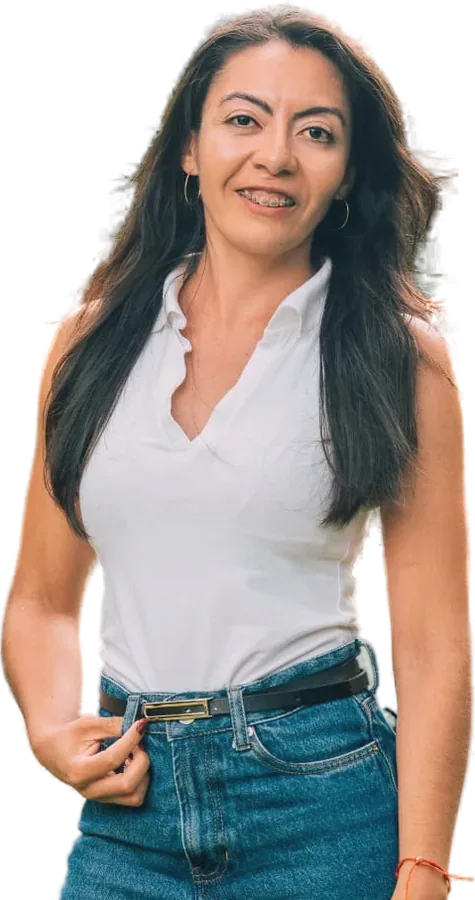
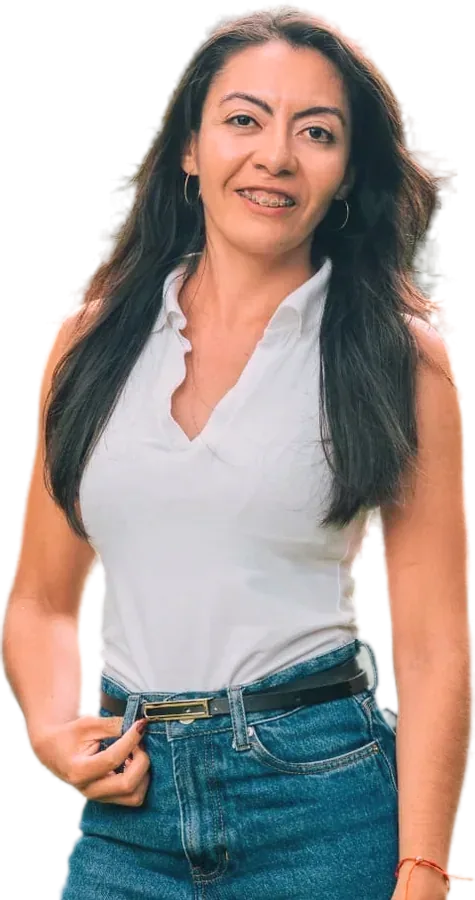
Clean hero cutout edges and warm Ivonne's skin tone one step (#13)
* Add static sales landing page for Viver de Coliving

Claude-Session: https://claude.ai/code/session_01SfAepcbRf6sY97WC7D79BX

* Serve the landing page as static assets on Cloudflare Workers

Claude-Session: https://claude.ai/code/session_01SfAepcbRf6sY97WC7D79BX

* Use Paola's coliving photo on the landing page

Claude-Session: https://claude.ai/code/session_01SfAepcbRf6sY97WC7D79BX

* Raise contrast and type sizes, redesign hero art and team section on the landing page

Claude-Session: https://claude.ai/code/session_01SfAepcbRf6sY97WC7D79BX

* Fit hero photos inside a larger house shape

Claude-Session: https://claude.ai/code/session_01SfAepcbRf6sY97WC7D79BX

* Turn the collaborative economy section into an ownership-to-access framework

Claude-Session: https://claude.ai/code/session_01SfAepcbRf6sY97WC7D79BX

* Remove audience list from module 2 description

Claude-Session: https://claude.ai/code/session_01SfAepcbRf6sY97WC7D79BX

* Show the collaborative economy as a circular diagram

Claude-Session: https://claude.ai/code/session_01SfAepcbRf6sY97WC7D79BX

* Use background-free photos inside the hero house and set the WhatsApp number

Claude-Session: https://claude.ai/code/session_01SfAepcbRf6sY97WC7D79BX

* Wire Asaas checkout links, add the individual consultancy offer and fix module count

Claude-Session: https://claude.ai/code/session_01SfAepcbRf6sY97WC7D79BX

* Retouch Ivonne's hero photo lighting and skin tone
[…]

diff --git a/landing/index.html b/landing/index.html
@@ -88,12 +88,12 @@ p+p{margin-top:16px}
 .hero-visual{position:relative;width:100%;max-width:640px;margin:0 auto;aspect-ratio:1/1.02;overflow:hidden;border-radius:0 0 20px 20px}
 .casa{position:absolute;left:0;right:0;top:0;bottom:0;background:var(--amarelo);clip-path:polygon(50% 0,100% 28%,100% 100%,0 100%,0 28%)}
 .gente{position:absolute;bottom:0;margin:0;height:86%}
-.gente img{height:100%;width:auto;display:block;filter:drop-shadow(0 14px 22px rgba(28,28,28,.28))}
-.gente.g1{left:3%;z-index:2}
-.gente.g2{right:3%;z-index:1;height:82%}
+.gente img{height:100%;width:auto;display:block;filter:drop-shadow(0 4px 6px rgba(28,28,28,.14))}
+.gente.g1{left:-3%;z-index:2}
+.gente.g2{right:-3%;z-index:1;height:82%}
 .gente figcaption{position:absolute;bottom:14px;background:var(--grafite);color:#fff;border-radius:8px;padding:5px 12px;font-size:13px;line-height:17px;z-index:3;white-space:nowrap}
-.gente.g1 figcaption{left:8%}
-.gente.g2 figcaption{right:8%}
+.gente.g1 figcaption{left:14%}
+.gente.g2 figcaption{right:14%}
 .gente figcaption b{display:block;font-size:16px;line-height:21px}
 .duo{display:grid;grid-template-columns:1fr 1fr;gap:14px}
 .duo figure{position:relative;border-radius:16px;overflow:hidden;background:#fff}
